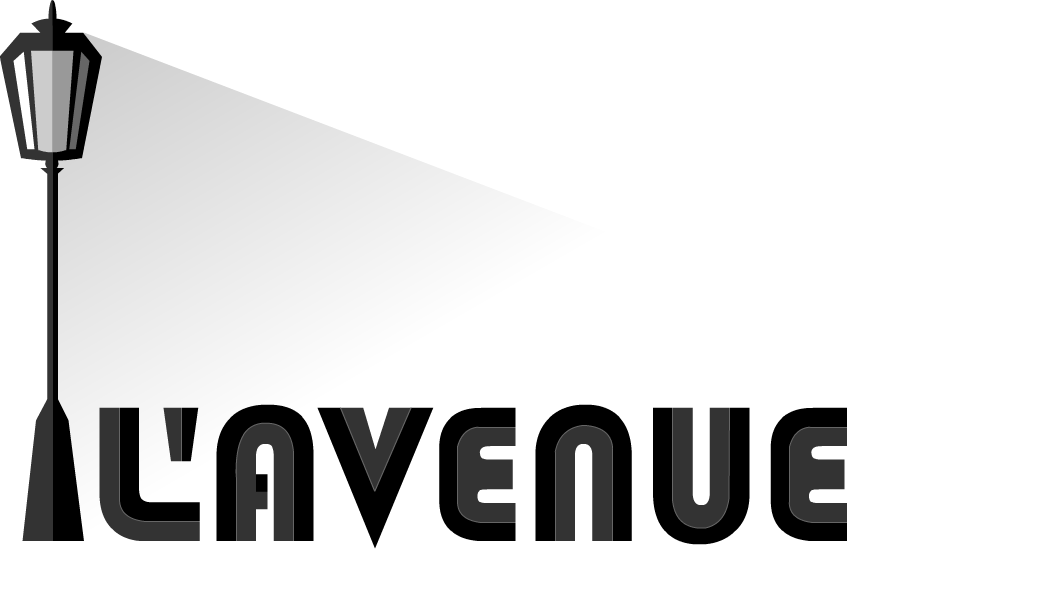
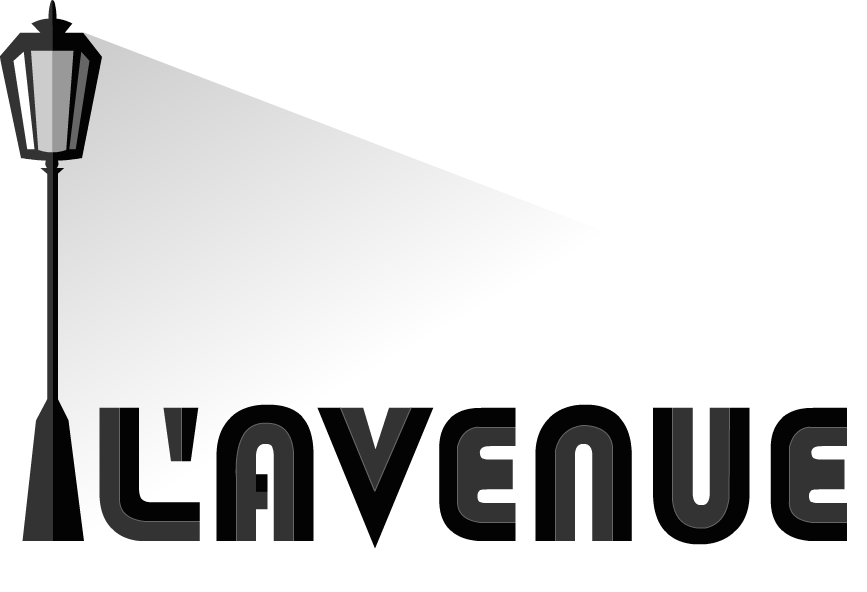
changes

Changed region(s): [[0.0, 0.0, 0.9965, 0.9426]]

diff --git a/lavenue/client/template_wardrobe.html b/lavenue/client/template_wardrobe.html
@@ -28,27 +28,25 @@
 							<div class="wardrobeCardTitle"><i class="shop large icon"></i>Transactions</div>
 							<table class="ui celled table">
 							  <thead>
-							    <tr><th>Header</th>
-							    <th>Header</th>
-							    <th>Header</th>
+							    <tr><th>Item</th>
+							    <th>Price</th>
+							    <th>Renter/Owner</th>
 							  </tr></thead>
 							  <tbody>
 							    <tr>
-							      <td>
-							        <div class="ui ribbon label">First</div>
-							      </td>
-							      <td>Cell</td>
-							      <td>Cell</td>
+							      <td>Prada Kitten-Heel</td>
+							      <td class="positive">$130.00</td>
+							      <td>TwentiesGirlStyle</td>
 							    </tr>
 							    <tr>
-							      <td>Cell</td>
-							      <td>Cell</td>
-							      <td>Cell</td>
+							      <td>Wothington Long-Sleeve</td>
+							      <td class="negative">$200.00</td>
+							      <td>Michelle</td>
 							    </tr>
 							    <tr>
-							      <td>Cell</td>
-							      <td>Cell</td>
-							      <td>Cell</td>
+							      <td>Trouve Silk Blouse</td>
+							      <td class="positive">$143.00</td>
+							      <td>PoorLittleItGirl</td>
 							    </tr>
 							  </tbody>
 							</table>
@@ -74,6 +72,10 @@
 						</div>
 					</div>
 					<div class="four wide column">
+						<div class="ui tertiary yellow inverted segment">
+							<h3>Subscription Status:</h3>
+							<div class="wardrobeCardTitle"><i class="trophy large icon"></i> Subscribed!</div><br>
+						</div>
 						<div class="ui segment">
 							<div class="wardrobeCardTitle"><i class="thumbs up large icon"></i>Your rating</div><br>
 							<i class="big star yellow icon"></i><i class="big star yellow icon"></i><i class="big star yellow icon"></i><i class="big star yellow icon"></i><i class="big star grey icon"></i><br><br>
@@ -170,6 +172,10 @@
 		          	<p>{{description}}</p>
 		        {{else}}
 					<form class="ui form yourShopFormContainer" id="insertDescription">
+			      		<div class="inline field">
+						    <label><div id="insertDescriptionText">Price: $</div></label>
+						    <input id="{{_id}}priceInput" type="text" name="text" placeholder="0.00">
+						</div>
 						<div class="three fields">
 							<div class="field">
 								<label><div id="insertDescriptionText">Bust</div></label>
@@ -228,7 +234,7 @@
 									<option value="40">40"</option>
 								</select>
 							</div>
-						</div><br>
+						</div>
 						<div class="field">
 							<label><div id="insertDescriptionText">Say a fashion statement</div></label>
 						    <input id="{{_id}}insertDescription" type="text" name="text" placeholder="Description">
@@ -242,14 +248,9 @@
 	      <img src="{{imageUrl}}">
 	      <div class="ui teal ribbon label">
 	      	{{#if hasPrice}}
-	      		<h3>${{price}}</h3>
+	      		<h2>${{price}}</h2>
 	      	{{else}}
-	      		<form class="ui form" id="insertPrice">
-	      			<div class="one wide inline field left floated">
-				    <label>Price: $</label>
-				    <input id="priceInput" type="text" name="text" placeholder="0.00">
-				  </div>
-	      		</form>
+	      		<h3>No price attached</h3>
 	      	{{/if}}
 	      </div>
 	    </div>

diff --git a/lavenue/client/wardrobe.js b/lavenue/client/wardrobe.js
@@ -10,7 +10,7 @@ Template.wardrobe.onRendered(function(){
 
 Template.wardrobe.events({
 	'click #profileBreakdownButton': function(){
-		$(".ui.modal").modal('show');
+		$("#profileBreakdownModal").modal('show');
 	}
 });
 
@@ -166,7 +166,9 @@ Template.yourShopCard.events({
 	    }
 	    var id = this._id
 	    var description = document.getElementById(id+'insertDescription').value;
-	    ShopItems.update(id, {$set: {bust: bust, waist: waist, hip: hip, description: description}});
+	    var price = document.getElementById(id+'priceInput').value;
+	    console.log(price);
+	    ShopItems.update(id, {$set: {price: price, bust: bust, waist: waist, hip: hip, description: description}});
 	    console.log(description);
 	}
 });

diff --git a/lavenue/client/layout.html b/lavenue/client/layout.html
@@ -17,7 +17,7 @@
 	{{else}}
 		<br><br>
 		<center>
-			<img id = "splashLogo" src = "images/lamppostwut2.png"><br>
+			<img id = "splashLogo" src = "images/LAVENUE_NEW_2.png"><br>
 			<div class="ui grid">
 				<div class="row">
 					<div class="right floated three wide column">
